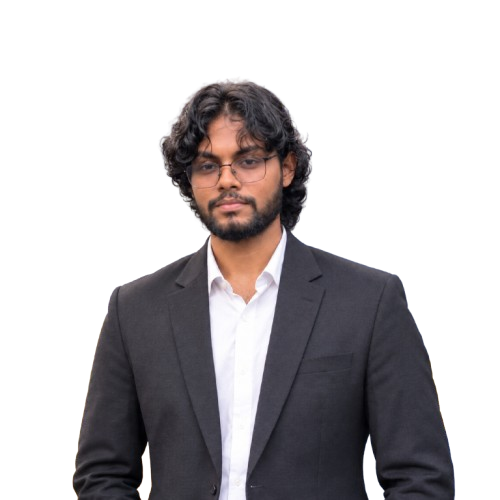
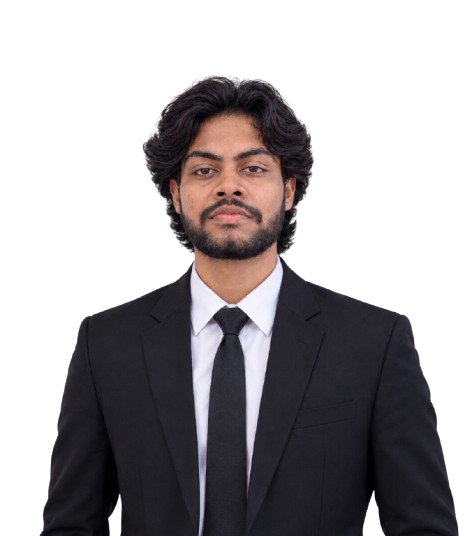
changed the profile image

diff --git a/src/components/contentsOfPage.jsx b/src/components/contentsOfPage.jsx
@@ -66,11 +66,13 @@ function Hero() {
         {/* Profile image */}
         <div className="order-1 md:order-2 flex justify-center animate-fade-up" style={{ animationDelay: "0.15s" }}>
           <div className="relative">
-            <div className="absolute inset-x-8 bottom-6 top-10 rounded-full bg-gradient-to-tr from-blue-500 via-purple-500 to-cyan-400 blur-3xl opacity-40 animate-pulse" />
+            {/* Lighter background pulse */}
+            <div className="absolute inset-x-8 bottom-6 top-10 rounded-full bg-gradient-to-tr from-blue-500 via-purple-500 to-cyan-400 blur-3xl opacity-20 animate-pulse" />
+            {/* New profile image with a slight brightness boost */}
             <img
               src="/profile_26.png"
               alt="Poorna Sayuranga"
-              className="relative w-72 md:w-96 h-auto object-contain drop-shadow-[0_30px_40px_rgba(0,0,0,0.45)] animate-float"
+              className="relative w-72 md:w-96 h-auto object-contain brightness-110 drop-shadow-[0_30px_40px_rgba(0,0,0,0.45)] animate-float"
             />
           </div>
         </div>
